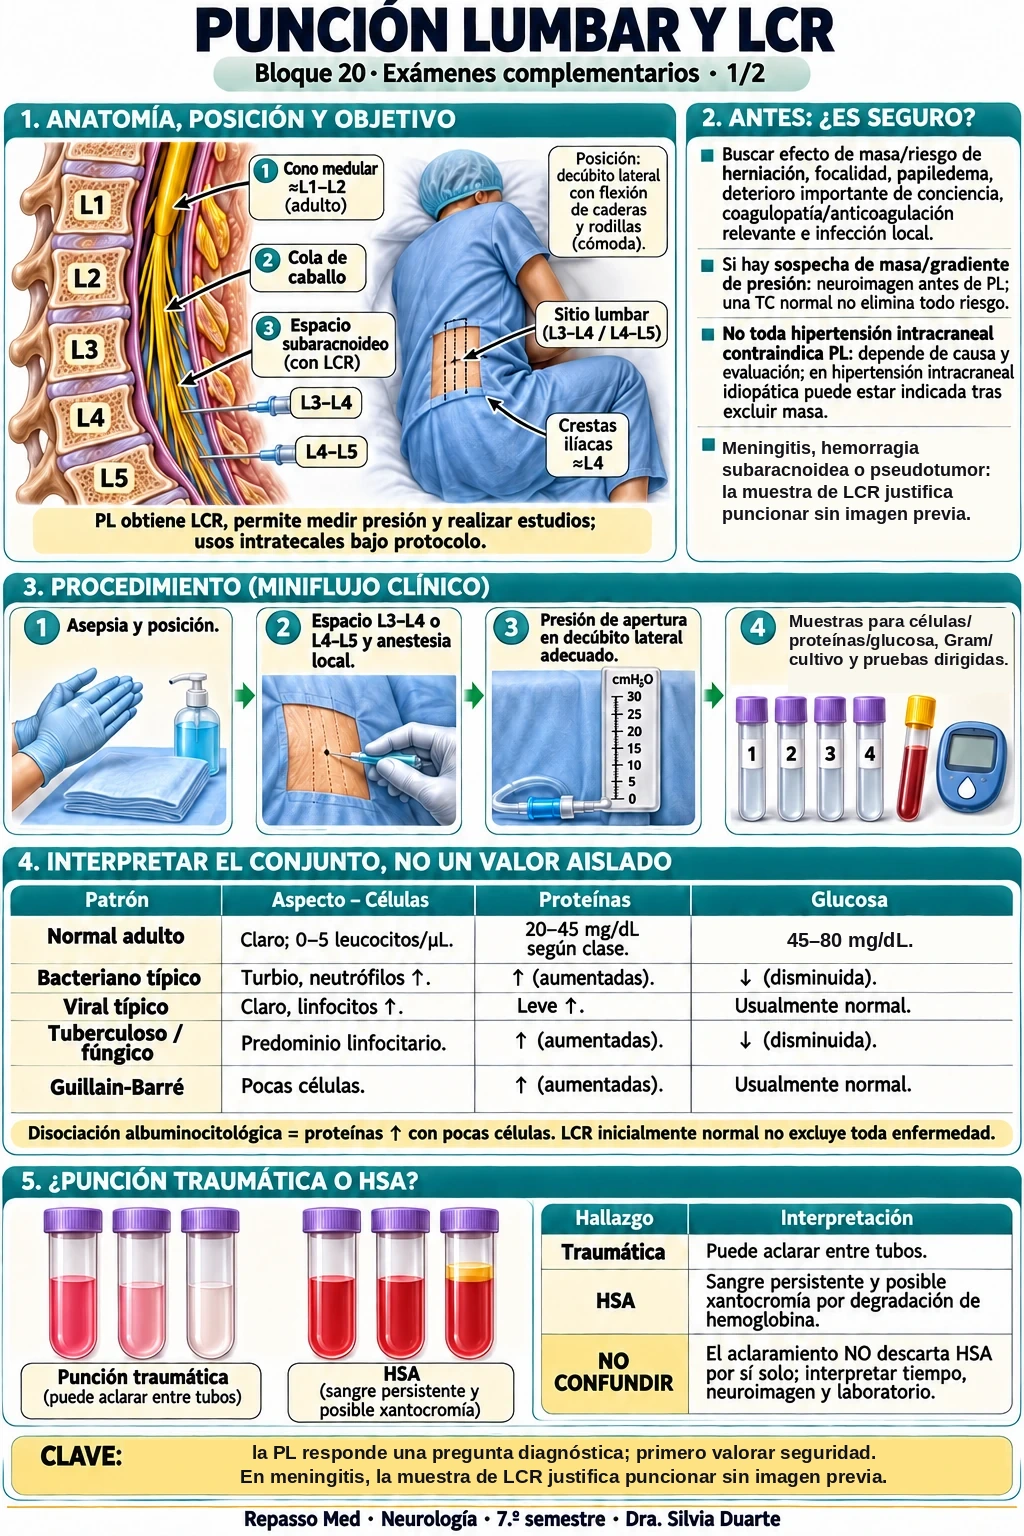
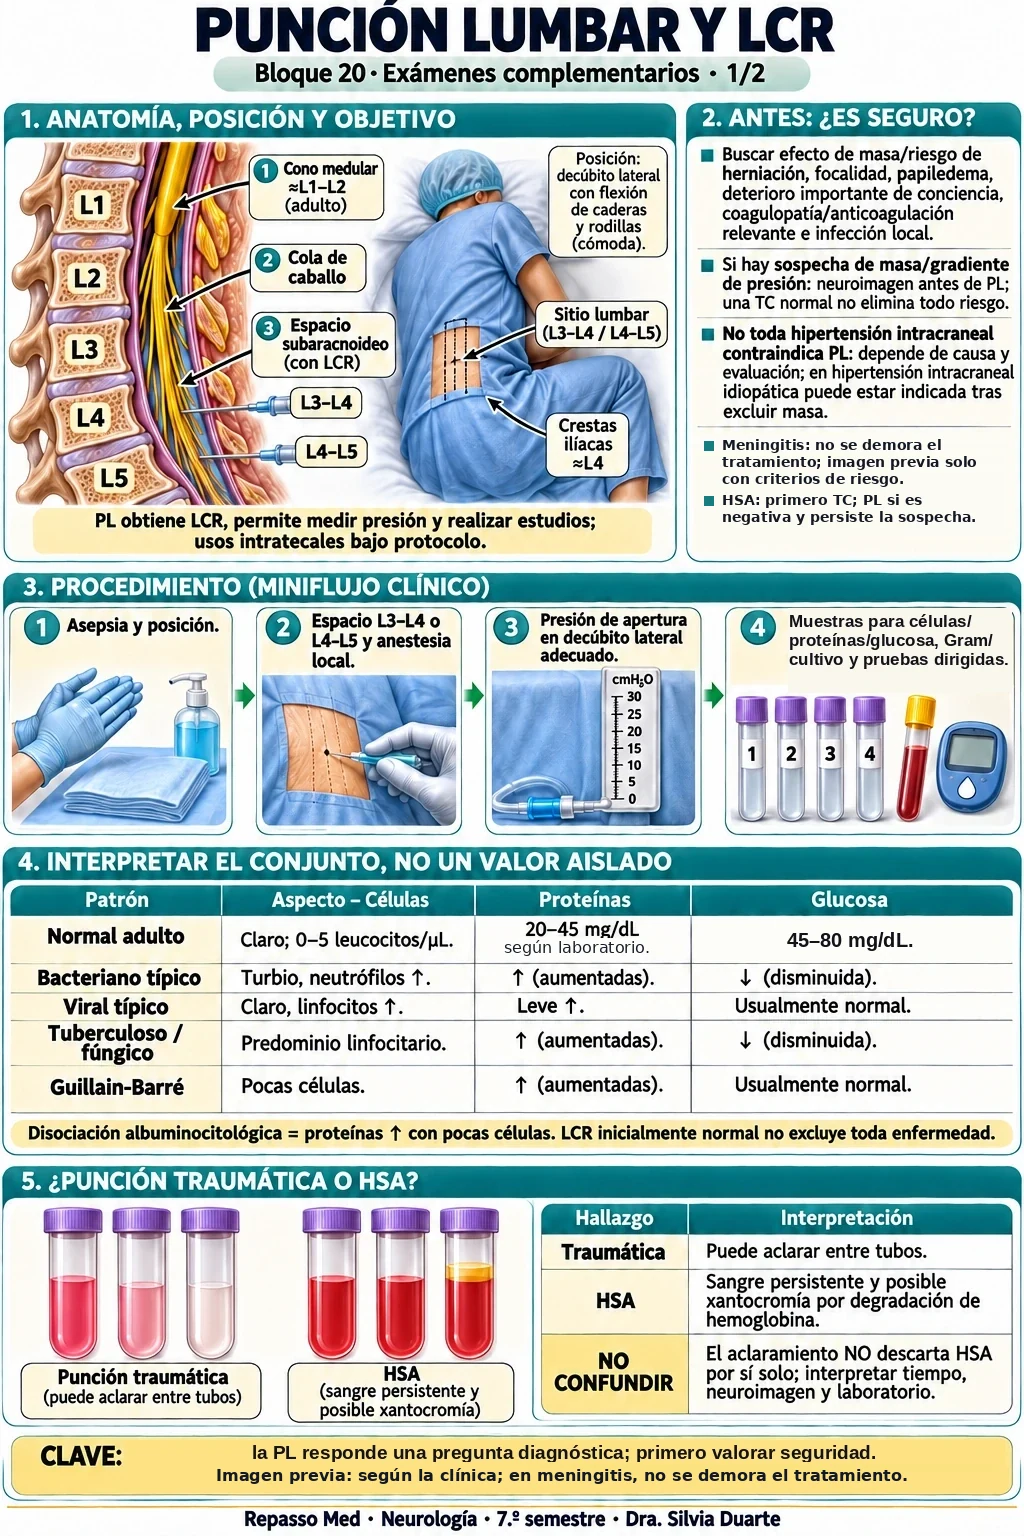
Neurologia #682: corrige a afirmação sobre punção lumbar sem imagem (imagem b20-01 e legenda), revisa as 13 figuras e conserta o teste neu-cierre
- b20-01: arte e legenda não generalizam mais PL sem imagem em meningite/HSA/pseudotumor; referências no pack
- legendas b21-01, b21-02, b25-02, b26-01 com o contexto que faltava
- neu-cierre: critério válido para a main atual (seção exata + nada se perde + contagens derivadas); 27/27 estático e 26/26 navegador; mutações detectadas

Claude-Session: https://claude.ai/code/session_01RqPJR6WPBhuhwUpV78sACw

Changed region(s): [[0.2188, 0.9375, 0.875, 0.9688], [0.6875, 0.2812, 0.9688, 0.3438], [0.5, 0.5938, 0.625, 0.625]]

diff --git a/coordination/source-packs/neurologia-infograficos-b20-b27-2026-11-v1.md b/coordination/source-packs/neurologia-infograficos-b20-b27-2026-11-v1.md
@@ -298,3 +298,57 @@ Se a #687 mudar antes de entrar (novo head), repetir o ensaio isolado com o novo
 
 ## Integração final sobre a `main` (25/11/2026)
 A #687 (com a #715) entrou na `main` (`085e8844`). Esta branch recebeu a `main` por merge (`f4c8be6c`), sem rebase. Conflitos (3) resolvidos: `inventario.json` (linha da Neurología regenerada pelo gerador: 594 q, 774 fc, 47 figuras), `neu-glosario.test.cjs` (linha da `main` com o filtro de glosas) e `neu-questoes-1811.test.cjs` (versão da `main`); nenhum conflito no `neurologia.html`. **Prova de preservação:** o HTML integrado menos as 13 figuras é idêntico byte a byte à `main` (`tools/qa/neu-infograficos/preservacao-682.test.cjs`, 8/8). **`neu-cierre`:** estático 21/23 falha igual na `main` (compara com a `main` de `10e9d4df`) e **não é aprovação**; o navegador só roda se o estático passar, e rodado à parte dá 22/26 com os números absolutos antigos e 26/26 com `--relativo`. Detalhes no corpo da PR.
+
+## Revisão médica das 13 imagens e legendas (25/11/2026) — correção da punção lumbar (b20-01)
+**Motivo:** a legenda e a própria imagem `neuro-b20-01-puncion-lumbar-y-lcr` diziam que, em meningite, HSA ou pseudotumor, «a amostra de LCR justifica puncionar sem imagem prévia». Isso generaliza uma decisão que depende da situação clínica (e, para HSA e pseudotumor, inverte a conduta: imagem primeiro). Origem: o slide `9..pdf` (registrado acima); o erro entrou na arte e na legenda.
+
+### Correções feitas (arte e legenda)
+| Onde | Antes | Depois | Referência |
+|---|---|---|---|
+| **Imagem b20-01, quadro 2** («Antes: ¿es seguro?»), último item | «Meningitis, hemorragia subaracnoidea o pseudotumor: la muestra de LCR justifica puncionar sin imagen previa.» | «Meningitis: no se demora el tratamiento; imagen previa solo con criterios de riesgo. HSA: primero TC; PL si es negativa y persiste la sospecha.» (o pseudotumor já aparece no item anterior da arte: «excluir masa» antes da PL) | IDSA 2004; ESCMID 2016; AHA/ASA 2023; Mollan 2018 |
+| **Imagem b20-01, caixa «CLAVE»** | «En meningitis, la muestra de LCR justifica puncionar sin imagen previa.» | «Imagen previa: según la clínica; en meningitis, no se demora el tratamiento.» | idem |
+| **Imagem b20-01, tabela LCR** | proteínas «20–45 mg/dL según clase» (ambíguo: «clase» = aula) | «según laboratorio» | faixa depende do método/laboratório |
+| **Legenda b20-01** | última frase com a afirmação | «A imagem prévia a decide a situação clínica…»: meningite (só com critérios de risco: imunossupressão, convulsão recente, papiledema, déficit focal, consciência alterada; sem demorar o tratamento), HSA (TC primeiro; PL só se TC negativa e suspeita persistente), pseudotumor (descartar massa antes) | idem |
+| Legenda b21-02 | HSA «casi siempre aneurisma roto» | «en la mayoría de los casos por un aneurisma roto» | AHA/ASA 2023 (a maioria das HSA espontâneas é aneurismática; «quase sempre» exagera) |
+| Legenda b21-01 | (sem aviso) | NIHSS: as faixas seguem o slide; outras fontes agrupam 1–4, 5–15, 16–20, 21–42; o escore orienta, não decide sozinho | Brott 1989; NINDS |
+| Legenda b25-02 | (rótulo «progresiva con recaídas» sem contexto) | esclarece que é termo da classificação antiga; a atual (Lublin 2014) usa RR, SP, PP (ativa ou não) e «síndrome clínicamente aislado» | Lublin 2014 |
+| Legenda b26-01 | (sem aviso) | triptanos têm contraindicações (p. ex. cardiovasculares) e se escolhem por paciente | ICHD-3 / guias de enxaqueca |
+A imagem corrigida foi editada **na própria arte** (cobertura do fundo e novo texto, fonte sans-serif semelhante); o resto da figura não mudou (WebP 400 → 343 KB, mesmas dimensões 1024 × 1536).
+
+### Referências (registro)
+- Tunkel AR, et al. Practice Guidelines for the Management of Bacterial Meningitis (IDSA). *Clin Infect Dis* 2004;39:1267–84. (TC antes da PL só em pacientes de risco; terapia empírica não deve esperar a imagem. **Conferido por busca em 25/11**; a lista exata de critérios deve ser lida no artigo.)
+- van de Beek D, et al. ESCMID guideline: diagnosis and treatment of acute bacterial meningitis. *Clin Microbiol Infect* 2016;22(Suppl 3):S37–S62. (**citada de memória, não aberta nesta sessão**)
+- Hoh BL, et al. 2023 Guideline for the Management of Patients With Aneurysmal Subarachnoid Hemorrhage (AHA/ASA). *Stroke* 2023;54:e314–e370. (TC sem contraste primeiro; PL quando a TC é negativa/duvidosa e a suspeita persiste, com o tempo de início em conta. **Conferido por busca em 25/11**; a força da recomendação não foi lida.)
+- Mollan SP, et al. Idiopathic intracranial hypertension: consensus guidelines on management. *J Neurol Neurosurg Psychiatry* 2018;89:1088–1100. (neuroimagem urgente para excluir massa e trombose venosa antes de medir a pressão de abertura; **existência e tema conferidos por busca; o trecho exato da sequência imagem-PL não foi lido**)
+- Lublin FD, et al. Defining the clinical course of multiple sclerosis: the 2013 revisions. *Neurology* 2014;83:278–86. (**de memória**)
+- Brott T, et al. Measurements of acute cerebral infarction: a clinical examination scale. *Stroke* 1989;20:864–70. (**de memória**)
+**Limite declarado:** as outras 12 imagens foram conferidas contra os slides já registrados neste pack e contra o conhecimento clínico do revisor; **não houve nova busca de literatura para cada uma** e **não existe literatura-base de Neurologia no projeto**.
+
+### Resultado da conferência das outras 12 imagens (imagem + legenda)
+| Imagem | Resultado |
+|---|---|
+| b20-02 exames | sem erro; contexto adequado («TC inicial normal não exclui isquemia precoce», «não todo implante contraindica RM») |
+| b21-01 ictus isquêmico | sem erro clínico; **dúvida (NIHSS)**: as faixas 1 · 2–5 · 6–15 · 16–20 · > 20 são as do slide e do bloco; a literatura mais usada é 1–4 · 5–15 · 16–20 · 21–42. Não alterei a arte (contradiria o bloco e as perguntas); legenda esclarece |
+| b21-02 hemorragia | sem erro; legenda ajustada («la mayoría»). A arte diz corretamente «TC urgente; PL se TC negativa e suspeita persiste» (**contradizia a legenda antiga de b20-01**) |
+| b22-01 epilepsia | sem erro (ILAE 2014/2017, estado ≥ 5 min, resolução 10/5 anos «criterio docente») |
+| b23-01 Parkinson | sem erro (circuito direto/indireto, critérios de bradicinesia + rigidez/tremor, DBS, fármacos) |
+| b24-01 cognição | sem erro (cortes MMSE/MoCA «≈» e «docente», ajuste +1 do MoCA) |
+| b24-02 demências | sem erro (Lewy: «la tétrada no exige que estén todos»; HPN) |
+| b25-01 Guillain-Barré | sem erro (IgIV 0,4 g/kg × 5 d, PF 5 sessões, corticoides sem benefício) |
+| b25-02 esclerose múltipla | **dúvida (4.ª forma)**: «progresiva con recaídas» é termo antigo; o slide rotula «primer episodio desmielinizante». Sem decisão da cátedra, mantive a arte (segue o bloco) e acrescentei contexto na legenda. McDonald 2017/2024 conferido contra o slide |
+| b26-01 cefaleias | sem erro (ICHD-3); legenda ganhou o aviso dos triptanos |
+| b27-01 TEC | sem erro; **dúvida registrada** (já constava): slides divergem sobre «coma ≤ 5» × «≤ 8 sem abertura ocular»; a arte usa ≤ 8 com valoração de via aérea |
+| b27-02 TEC II | sem erro (PIC < 22 mmHg, corticoides contraindicados, HED > 30 mL, HSD > 10 mm / desvio > 5 mm); a arte não traz a meta de PPC (omissão, não erro) |
+
+### Dúvidas NÃO resolvidas (para José/cátedra)
+1. **NIHSS (b21-01):** rótulo/faixas do slide × literatura (acima).
+2. **EM, 4.ª forma (b25-02):** rótulo da cátedra.
+3. **Coma no TEC (b27-01):** divergência entre slides.
+4. **Nomes de docente nas imagens:** o rodapé das 13 imagens traz «Dra. Silvia Duarte». A página do aluno não deve expor perfil de docente (CLAUDE.md §2-A); não alterei as 13 imagens sem decisão de José (exigiria repintar o rodapé).
+5. **Texto de ensino do bloco 20 na `main` (fora do escopo desta PR):** o resumo e uma resposta ainda agrupam «meningitis, HSA y pseudotumor» como casos em que a amostra «puede justificar adelantar la punción», com ressalvas («no es automática»). Para HSA a conduta é TC primeiro. **Recomendo PR própria sobre a `main`** (altera texto com grifos de alunos; exige cuidado com âncoras).
+6. **Perguntas duplicadas na `main` (achado do teste `neu-cierre`):** `q-neu234` = `q-neu-2509-05` (neuralgia do trigêmeo, mesmo enunciado e alternativas) e quase-duplicata `q-neu148` / `q-neu289` (DEFINE «facies parkinsoniana»). A capa conta 296 distintas em vez de 297. **Não alterei** (8-A.9 proíbe apagar sem protocolo); pede decisão (lei 8-A.1-B).
+
+## `neu-cierre` — causa e correção (25/11/2026)
+**Causa:** o teste comparava a página **inteira** com a `main` de `10e9d4df` (antes da retirada do Cierre) e usava números absolutos (254 perguntas, 508 itens, 34 infografías). Depois entraram a #687/#715 (+43 perguntas × 2) e a #682 (13 figuras): a comparação falhava **também na própria `main`** (21/23 estático), e o navegador nem rodava (22/26 com os números antigos). Não era regressão desta PR.
+**Correção (`tools/qa/neu-cierre/neu-cierre.test.cjs`):** (a) a **seção `revisaoneu`** tem de ser **exatamente** a da base sem o Cierre; (b) nada da base se perde: títulos h2, seções, **ids**, flashcards (conjunto) e perguntas (`q-`/`bq-`); (c) bloco = banco; (d) as contagens de capa, índice e DOM passam a ser **derivadas da página atual** (inclusive a contagem de perguntas **distintas** que a capa usa, replicada em Node) e as figuras = 34 + as da #682; (e) o `--relativo` virou o padrão (flag aceita por compatibilidade). **Nenhuma verificação relevante foi apagada**: as que dependiam da página inteira foram trocadas por equivalentes mais específicas (seção exata + inclusão de ids/flashcards/perguntas/seções), e duas que estavam anuláveis em `--relativo` (banco e capa) agora são sempre exigidas.
+**Provas:** estático 27/27 e navegador 26/26 sobre a branch **e** sobre a `main` limpa (sem figuras); **mutação**: remover uma flashcard do mazo, reinserir o h2 do Cierre, renomear o id de uma pergunta e retirar uma pergunta do banco → o teste falha em cada caso (4/4 detectadas).
